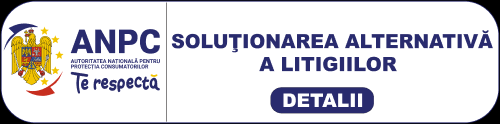
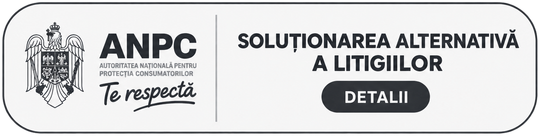
style(legal): use clean monochrome SAL badge, aligned in footer
Replace the SAL pictogram with the monochrome, transparent-background version
(cropped from the provided artwork, downscaled to 540px). Displayed at 240px,
left-aligned under the legal links, full opacity. SOL/ODR badge intentionally
omitted (EU ODR platform discontinued).

diff --git a/src/components/site/Footer.tsx b/src/components/site/Footer.tsx
@@ -101,10 +101,10 @@ export function Footer() {
                 <img
                   src={SAL.image}
                   alt={SAL.label}
-                  width={250}
-                  height={62}
+                  width={240}
+                  height={60}
                   loading="lazy"
-                  className="h-auto w-[230px] max-w-full rounded-lg bg-white p-1.5 shadow-sm ring-1 ring-black/5 transition hover:shadow"
+                  className="mt-1 block h-auto w-[240px] max-w-full"
                 />
               ) : (
                 <span className="underline hover:text-foreground">SAL</span>
